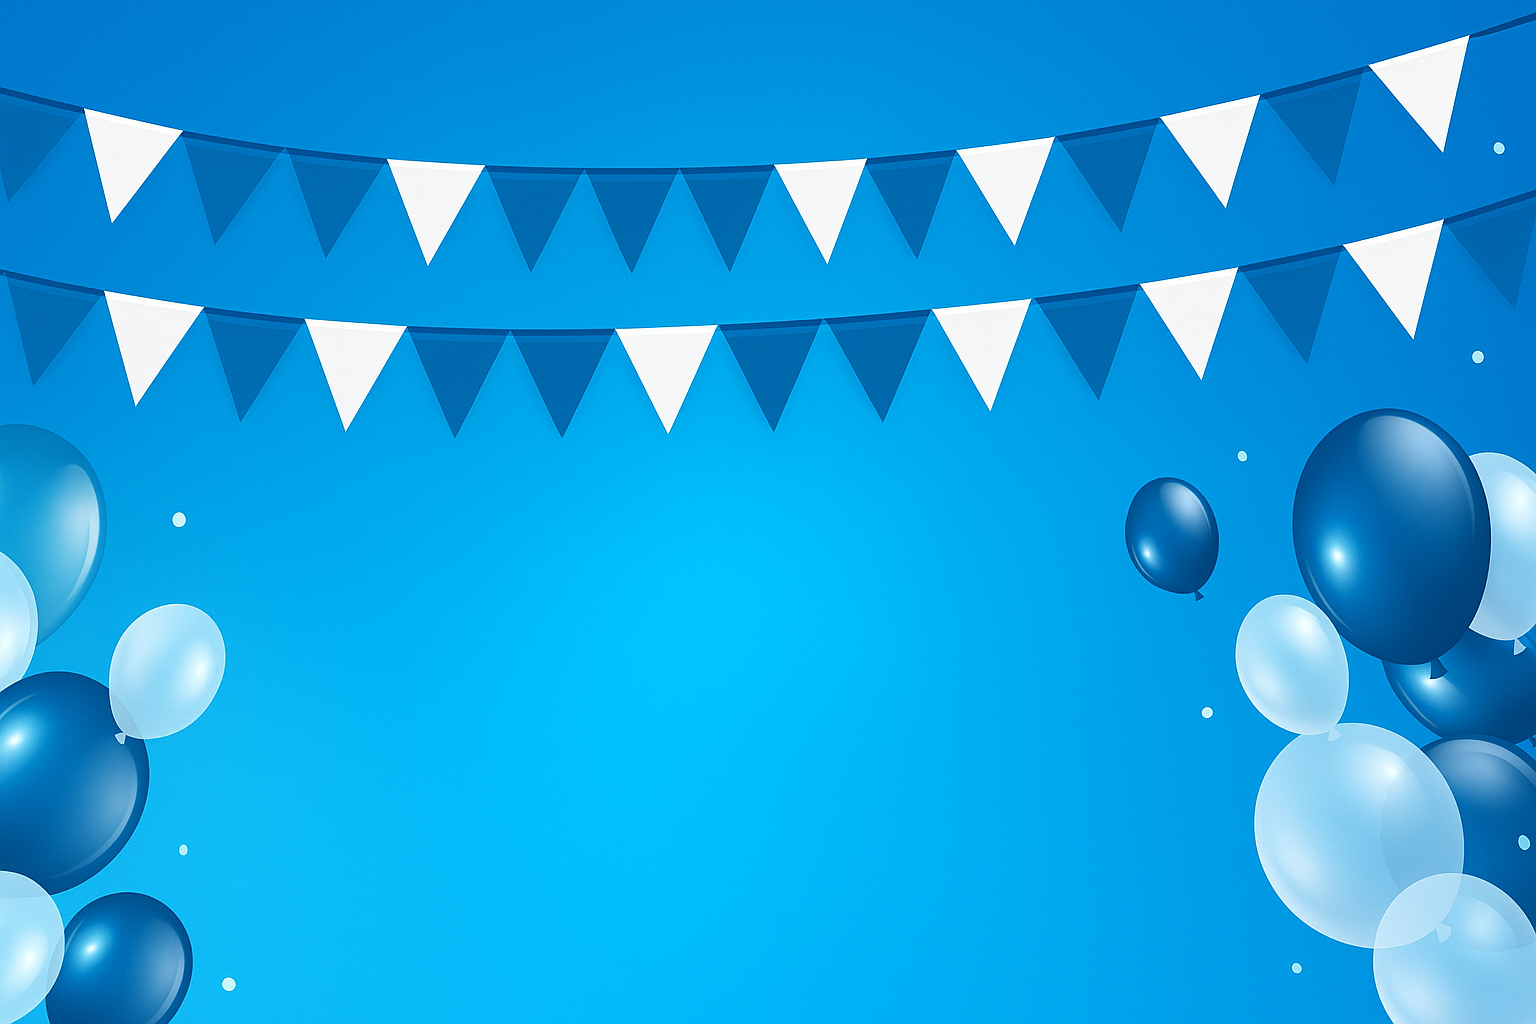
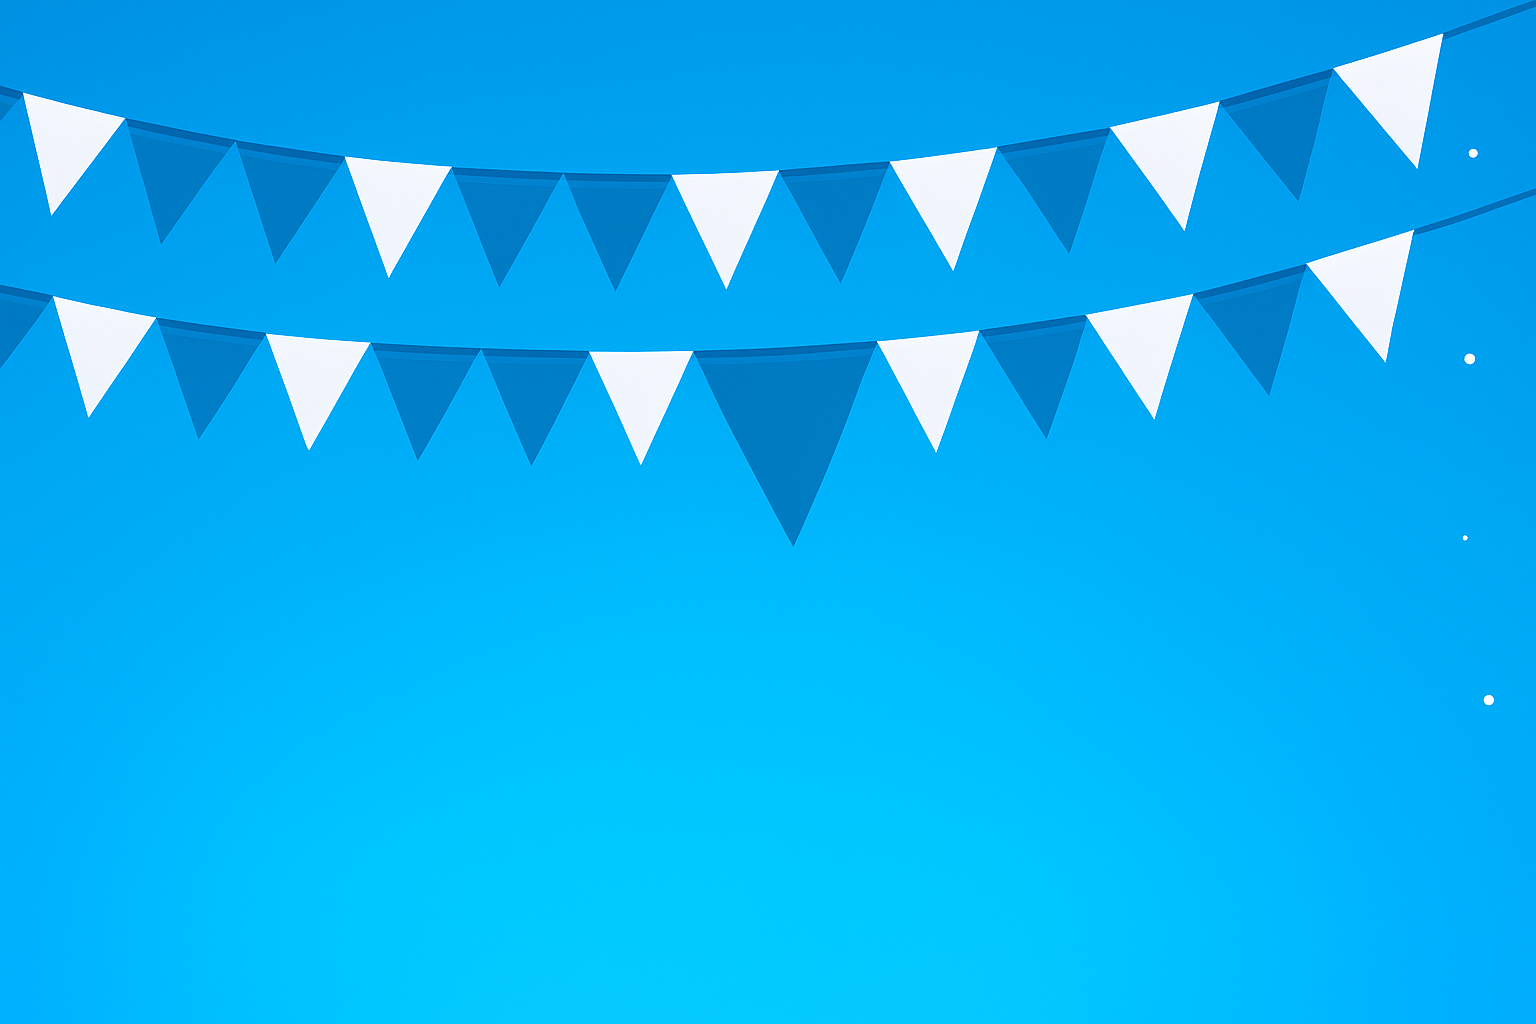
name responsive

diff --git a/styles.css b/styles.css
@@ -446,49 +446,50 @@ body {
 }
 
 
-/* Final Birthday Page */
+/* ================= FINAL BIRTHDAY PAGE ================= */
 .birthday-page {
   position: fixed;
   top: 0;
   left: 0;
   width: 100%;
   height: 100%;
-  background: #4facfe; /* fallback blue */
+  /* 🎨 Soft radial blue background */
+  background: radial-gradient(circle at center, #26b4ff 0%, #0099ff 60%, #007acc 100%);
   display: flex;
-  justify-content: center;
+  flex-direction: column;
   align-items: center;
-  overflow: hidden;
-  z-index: 3000;
+  justify-content: flex-start;
+  z-index: 1200;
+  overflow-y: auto;
 }
 
-/* Background image */
-.birthday-bg {
-  position: absolute;
-  top: 0;
-  left: 0;
+
+.birthday-banner {
   width: 100%;
-  height: 100%;
-  object-fit: contain;   /* ✅ show full image */
-  object-position: center;
-  z-index: 0;
+  height: auto;
+  display: block;
+  margin: 0 auto;
+  object-fit: cover;   /* ✅ fills width */
+  object-position: top; /* ✅ always align top */
 }
 
-/* Text overlay */
-.birthday-text {
-  position: absolute;
-  top: 45%;   /* ✅ adjust into the center clear area */
-  left: 50%;
-  transform: translate(-50%, -50%);
-  z-index: 1;
-  color: #fff;
-  text-align: center;
-  padding: 0 10px;
-}
-
-/* Responsive tweak for smaller phones */
+/* On mobile */
 @media (max-width: 600px) {
-  .birthday-text {
-    top: 55%;   /* push text a bit lower so it avoids flags */
-    font-size: 1rem;
+  .birthday-banner {
+    max-height: 180px;
   }
 }
+
+.banner-section {
+  width: 100%;
+  height: 250px; /* adjust as needed */
+  background: url("images/banner.png") no-repeat top center;
+  background-size: cover;   /* ✅ stretches to fit width */
+}
+
+@media (max-width: 600px) {
+  .banner-section {
+    height: 180px; /* smaller height for mobile */
+  }
+}
+

diff --git a/index.html b/index.html
@@ -55,15 +55,13 @@
     </div>
   </div>
 
-<!-- 🎈 Final Birthday Greeting Page -->
+ <!-- 🎀 Final Birthday Page -->
 <div id="birthdayPage" class="birthday-page" style="display:none;">
-  <img src="banner.png" alt="Birthday Banner" class="birthday-bg">
-  <div class="birthday-text">
-    <h1>🎉 HAPPY BIRTHDAY to you! 🎂</h1>
-    <p>Wishing you joy, love & celebration! 💖</p>
+  <!-- Banner at top -->
+  <div class="banner-section">
+    <img src="banner.png" alt="Birthday Banner" class="birthday-banner">
   </div>
 </div>
-
 
   <script src="script.js"></script>
 </body>
